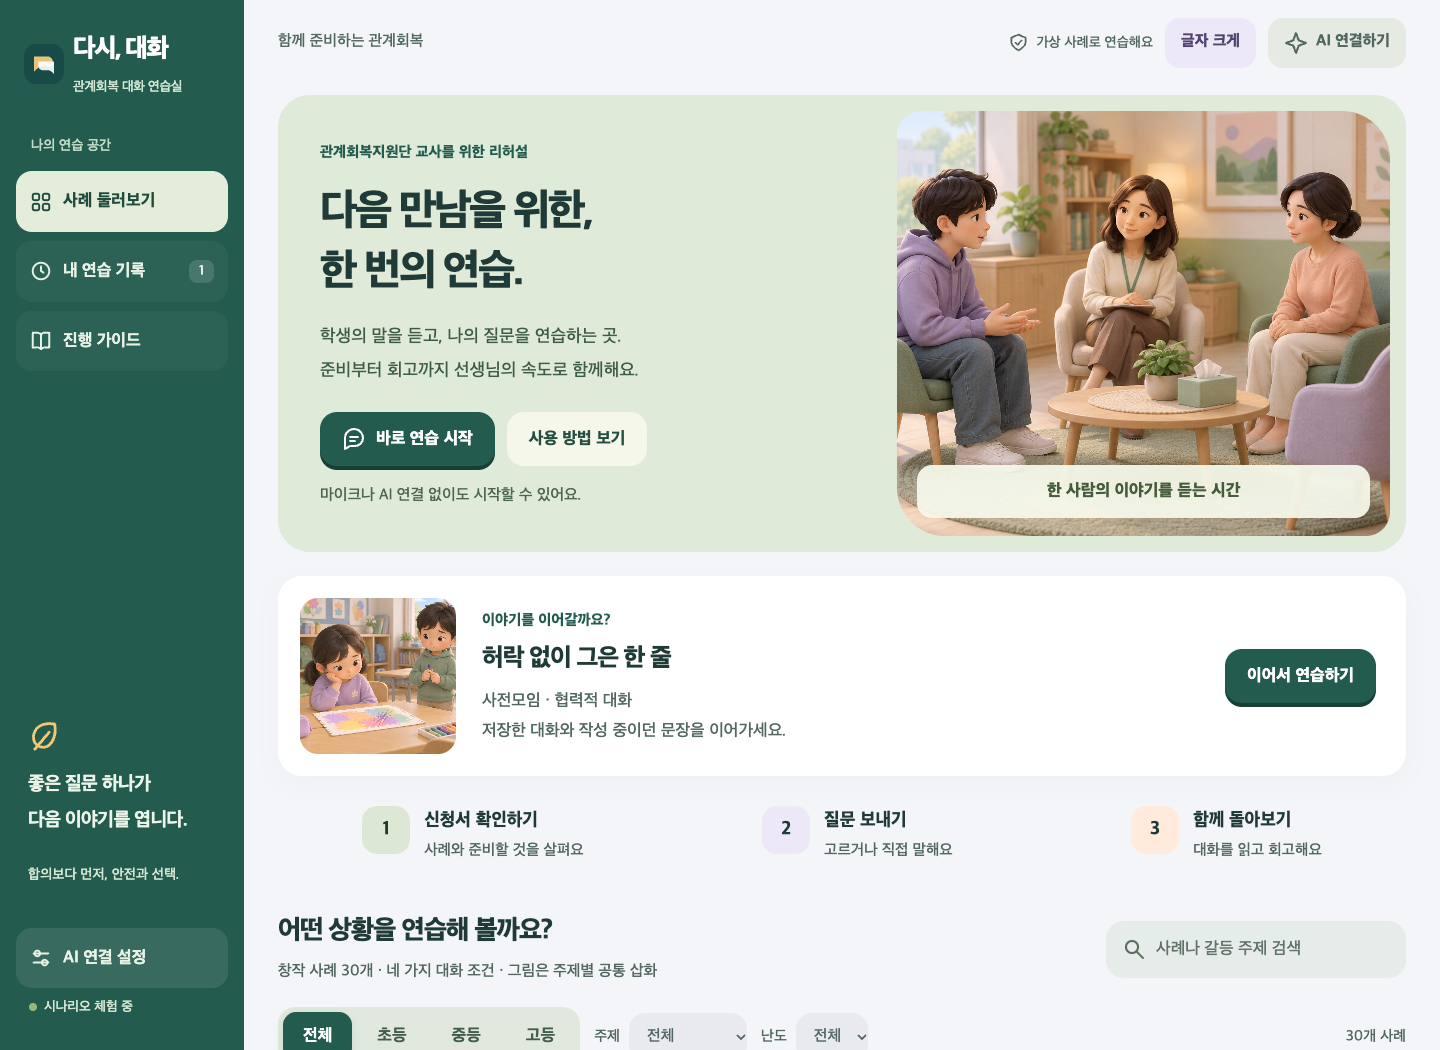
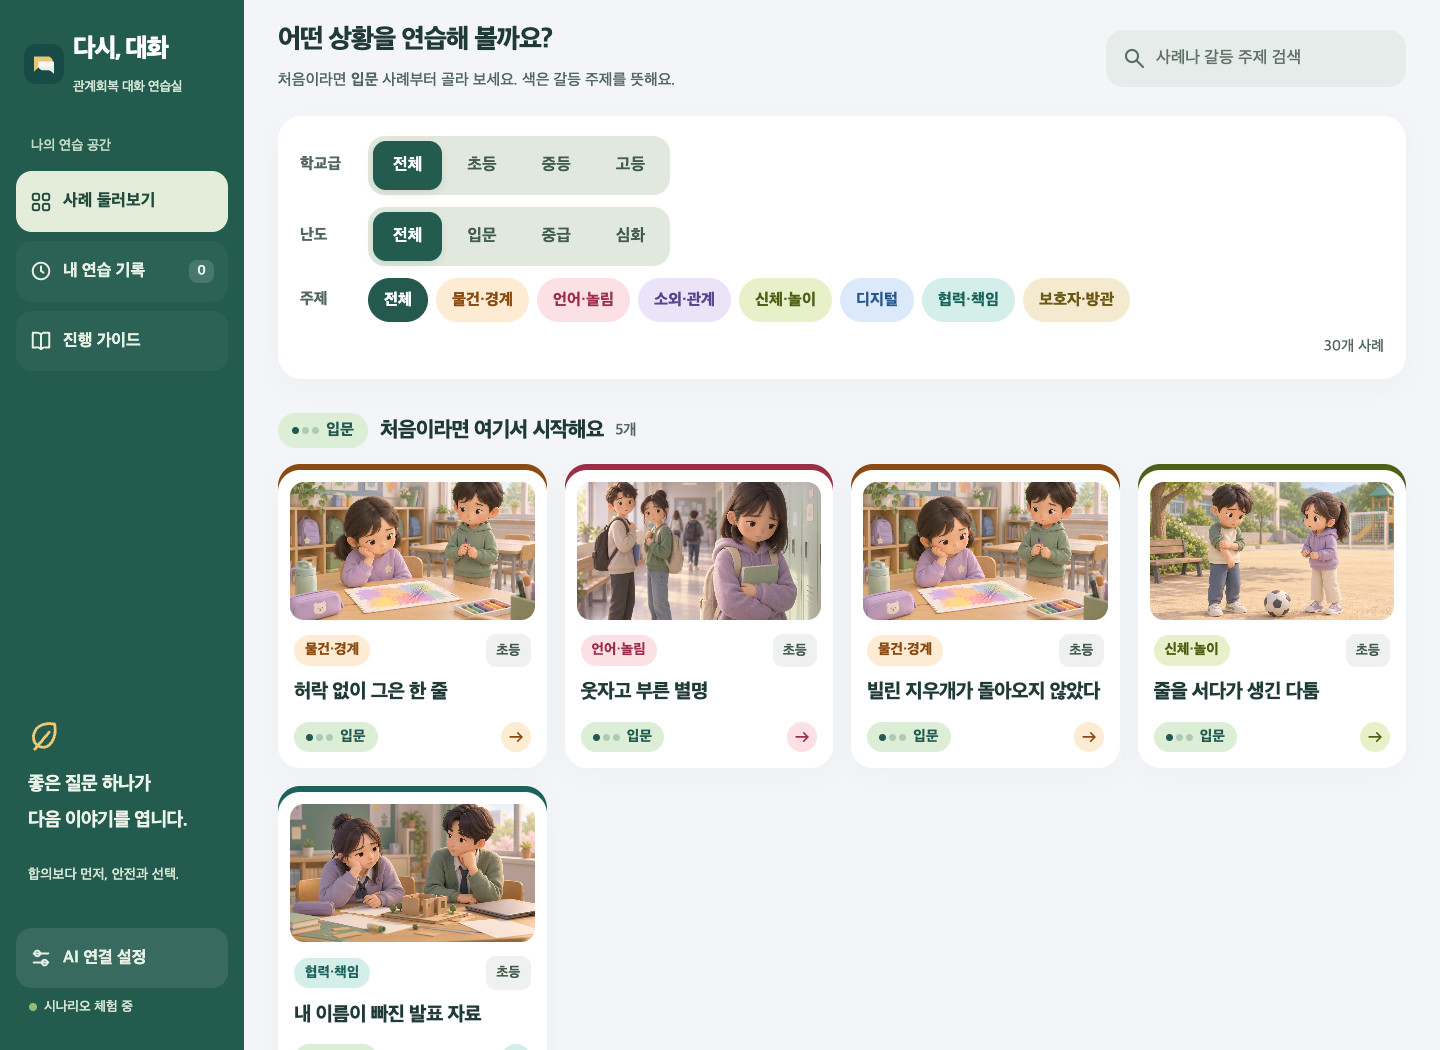
feat: release v0.3.0 with beginner-friendly case catalog
- Close every dialog on backdrop click; drags that start inside stay open
- Group cases by difficulty (입문 first) with 1-3 dot level tags
- Fixed color per conflict topic; topic/level filters become labeled chips
- Shorter case cards (no summary), horizontal cards on mobile
- Color accents and numbers on question cards; recommend 협력적 대화

diff --git a/public/experience.css b/public/experience.css
@@ -165,3 +165,60 @@
  :root[data-practice=active] .choice-card .choice-open,:root[data-practice=active] .choice-card .choice-selected{display:none}
  :root[data-practice=active] .choice-card.selected::after{content:'✓';position:absolute;right:6px;top:6px;font-size:13px;color:#fff}
 }
+
+/* v0.3 사례 분류: 주제마다 같은 색, 난도별 묶음, 제목 중심의 짧은 카드 */
+.cat-0{--cat-bg:#fdebd3;--cat-ink:#8a4a12}.cat-1{--cat-bg:#fbe0e5;--cat-ink:#9b2f47}.cat-2{--cat-bg:#ebe4f8;--cat-ink:#5a438f}.cat-3{--cat-bg:#e7f0c9;--cat-ink:#4c6116}.cat-4{--cat-bg:#dbe9fb;--cat-ink:#23598f}.cat-5{--cat-bg:#d4eeea;--cat-ink:#1b625b}.cat-6{--cat-bg:#f3ead0;--cat-ink:#6d5814}
+.filters{display:grid;gap:12px;margin-bottom:34px;padding:20px 22px;background:#fff;border-radius:24px;box-shadow:var(--surface-lift)}
+.filter-row{display:flex;align-items:center;gap:16px;min-width:0}
+.filter-name{flex:none;width:52px;font-size:.88rem;font-weight:800;color:var(--muted)}
+.filter-row .segmented{flex-wrap:wrap}
+.category-filters{display:flex;flex-wrap:wrap;gap:8px;min-width:0}
+.category-chip{display:inline-flex;align-items:center;border-radius:999px;background:var(--cat-bg,#e8eee9);color:var(--cat-ink,#2c4a41);font-size:.8rem;font-weight:750;line-height:1.4;padding:5px 11px}
+.category-filter{min-height:44px;padding:9px 16px;font-size:.9rem;transition:background .2s,color .2s,box-shadow .2s}
+.category-filter:hover{box-shadow:inset 0 0 0 2px var(--cat-ink,#24594f)}
+.category-filter.selected{background:var(--cat-ink,#24594f);color:#fff}
+.filter-status{display:flex;align-items:center;justify-content:flex-end;gap:12px}
+.level-tag{display:inline-flex;align-items:center;gap:7px;border-radius:999px;padding:5px 12px;background:#eef1ef;color:#3e5b52;font-size:.82rem;font-weight:800;line-height:1.4;letter-spacing:0}
+.level-tag i{display:inline-flex;gap:3px}.level-tag b{width:7px;height:7px;border-radius:50%;background:currentColor;opacity:.25}
+.level-1 b:first-child,.level-2 b:nth-child(-n+2),.level-3 b{opacity:1}
+.level-1{background:#dcefd6;color:#24594f}.level-3{background:#fde2d5;color:#8a3d1b}
+.level-group+.level-group{margin-top:42px}
+.level-heading{display:flex;align-items:center;flex-wrap:wrap;gap:12px;font-size:1.2rem;margin:0 0 16px}
+.level-heading .level-tag{font-size:.9rem;padding:6px 14px}
+.level-heading small{font-size:.85rem;font-weight:600;color:var(--muted);letter-spacing:0}
+.case-grid{grid-template-columns:repeat(auto-fill,minmax(250px,1fr));gap:18px}
+.case-card,.case-card:nth-child(n){min-height:0;padding:12px 12px 16px;background:#fff;border-radius:22px;box-shadow:inset 0 6px 0 var(--cat-ink),var(--surface-lift)}
+.case-card:nth-child(n):hover{box-shadow:inset 0 6px 0 var(--cat-ink),0 10px 24px #203b3712}
+.case-card .case-scene{margin:6px 0 14px;border-radius:14px}
+.case-card .case-scene img{aspect-ratio:16/9}
+.case-card .case-top{gap:6px;margin:0 4px 10px}
+.case-card .badge{margin-left:auto;background:#eef1ef}
+.case-card h4{margin:0 4px 14px;font-size:1.12rem;line-height:1.5;font-weight:800;letter-spacing:-.03em;word-break:keep-all;overflow-wrap:anywhere}
+.case-card .case-bottom{padding:0 4px}
+.case-card .case-bottom>.icon{background:var(--cat-bg);color:var(--cat-ink)}
+.recommend{display:inline-block;margin-left:8px;padding:2px 9px;border-radius:999px;background:#24594f;color:#fff;font-size:.75rem;font-style:normal;font-weight:750;vertical-align:2px}
+.choice-card:nth-child(1){--choice-accent:#d99a4e}.choice-card:nth-child(2){--choice-accent:#8f7cc4}.choice-card:nth-child(3){--choice-accent:#4f93cc}.choice-card:nth-child(4){--choice-accent:#5fa070}
+.choice-card:not(.selected),.choice-card:nth-child(even):not(.selected){box-shadow:inset 6px 0 0 var(--choice-accent),0 3px 0 #c2cfd0}
+.choice-card:not(.selected):hover{box-shadow:inset 6px 0 0 var(--choice-accent),0 3px 0 #afc1ba}
+@media(max-width:600px){
+ .filters{padding:16px;gap:14px;border-radius:22px}
+ .filter-row{display:grid;gap:8px}
+ .filter-name{width:auto}
+ .case-grid{grid-template-columns:1fr;gap:12px}
+ .case-card,.case-card:nth-child(n){display:grid;grid-template-columns:96px minmax(0,1fr);grid-template-areas:"art top" "art title" "art bottom";column-gap:14px;align-items:start;padding:12px 14px 12px 16px;box-shadow:inset 6px 0 0 var(--cat-ink),var(--surface-lift)}
+ .case-card:nth-child(n):hover{box-shadow:inset 6px 0 0 var(--cat-ink),0 10px 24px #203b3712}
+ .case-card .case-scene{grid-area:art;margin:0;align-self:stretch}
+ .case-card .case-scene img{aspect-ratio:1;height:100%}
+ .case-card .case-top{grid-area:top;margin:0 0 6px}
+ .case-card h4{grid-area:title;margin:0 0 8px;font-size:1.08rem}
+ .case-card .case-bottom{grid-area:bottom;padding:0}
+}
+/* 넓은 PC 창: 남는 카드 공간에 번호를 보여 준다. 카드 제목 크기(15/16px)는 v0.2.4 기준을 유지한다. */
+@media(min-width:901px) and (min-height:560px){
+ :root[data-practice=active] .choice-grid{container-type:size;counter-reset:choice}
+ :root[data-practice=active] .choice-card{counter-increment:choice}
+ @container (min-width:420px) and (min-height:330px){
+  .choice-card::before{content:counter(choice);position:absolute;top:12px;left:16px;display:grid;place-items:center;width:30px;height:30px;border-radius:50%;background:var(--choice-accent);color:#fff;font-size:14px;font-weight:800}
+  .choice-card.selected::before{background:#fff;color:#24594f}
+ }
+}

diff --git a/public/version.js b/public/version.js
@@ -1,1 +1,1 @@
-export const VERSION='0.2.4';
+export const VERSION='0.3.0';

diff --git a/docs/VERIFICATION.md b/docs/VERIFICATION.md
@@ -157,3 +157,10 @@
 - Node 단위·HTTP 검사 35개 통과. 효과음의 최대 이득·발음 순서, 즉시 도착한 답변의 소리 겹침 방지, 음소거 시 예약 음 중단, 오디오·저장소 미지원 시 오류 격리 포함.
 - PC 1366×768 및 낮고 좁은 901×640, 모바일 320px의 2×2 화면 스크린샷 육안 검토. 브라우저 오디오 재생 경로는 확인했으나 실제 스피커로 청취하거나 물리 마이크·실물 휴대전화를 사용하지 않음.
 - 최종 `desktop-room.mjs`는 PC 8개 크기·일반/확대 글자·긴 AI 제목을 포함한 40개 상태 통과. `responsive.mjs`, `followups-browser.mjs`, `v02-browser.mjs`, `browser.mjs`, `intake-browser.mjs`, `sounds-browser.mjs` 통과. 제공사 응답·음성 인식은 모의 응답 사용.
+
+## v0.3.0 — 사례 분류·배경 클릭 닫기
+
+- `browser.mjs`에 주제 칩(디지털 5개)·난도(입문 1개 묶음 5개)·조건 초기화(3개 묶음 30개) 검사와, 질문 상세 창을 배경 클릭으로 닫아도 기존 선택이 유지되는지 검사 추가.
+- 상세 창 안쪽 여백 클릭과 창 안에서 시작해 바깥에서 끝난 드래그는 창을 닫지 않음을 1440px·390px에서 확인.
+- Node 단위·HTTP 검사 35개 통과. `browser.mjs`, `responsive.mjs`, `intake-browser.mjs`, `followups-browser.mjs`, `v02-browser.mjs`, `desktop-room.mjs`, `sounds-browser.mjs` 통과.
+- 사례 목록 1440·768·390px, 대화 화면 1440×1000·1024×700·390px 스크린샷 육안 검토. 실물 휴대전화는 사용하지 않음.

diff --git a/README.md b/README.md
@@ -1,4 +1,4 @@
-# 다시, 대화 · v0.2.4
+# 다시, 대화 · v0.3.0
 
 충남 관계회복지원단 교사가 가상 학생·보호자와 대화모임을 연습하는 웹앱입니다. 충남 관계회복 운영 자료를 참고했습니다. [자료와 적용 범위](docs/SOURCES.md)에 참고 링크를 정리했습니다. 학교급별 창작 사례 30개를 제공합니다.
 
@@ -33,6 +33,13 @@ Node.js 22 이상이 있으면 추가 패키지 설치 없이 실행됩니다. m
 
 Finder에서 `다시대화 실행.command`를 더블클릭해 서버를 시작할 수도 있습니다. 같은 포트에서 이미 실행 중이라면 기존 브라우저 주소를 열면 됩니다. 파일을 `file://`로 직접 열지 마세요.
 
+
+## v0.3에서 달라진 점
+
+- 사례를 **입문 → 중급 → 심화** 순서로 묶었습니다. 처음이라면 맨 위 입문 사례부터 고르세요.
+- 갈등 주제마다 색이 정해져 있습니다. 위쪽 주제 색 칩을 누르면 그 주제만 봅니다.
+- 사례 카드는 제목 중심으로 짧게 보여 주고 자세한 내용은 카드를 눌러 확인합니다.
+- 팝업 창은 바깥 어두운 배경을 눌러도 닫힙니다. 고른 문장은 그대로 남습니다.
 
 ## v0.2에서 달라진 점
 

diff --git a/docs/PRD-COVERAGE.md b/docs/PRD-COVERAGE.md
@@ -1,4 +1,4 @@
-# PRD 적용 확인 — v0.2.4
+# PRD 적용 확인 — v0.3.0
 
 2026-10-10 현재 PRD와 코드를 대조했다. 기존의 핵심 기능은 구현되어 있었으며, v0.2에서 사용 흐름과 저장·내보내기의 완성도를 보완했다. ‘구현’과 실제 API/물리 기기 검증은 구분한다.
 
@@ -24,7 +24,7 @@
 | 질문 버튼 대비·글자 넘침 방지 | 진한 선택 탭, 흰색 카드와 경계, 작은 카드 제목·큰 글씨의 상세 창 | question-controls, desktop-room, responsive |
 | 효과음·음소거 유지 | 선택·전송·답변 도착, 브라우저 설정 저장·자동 재생 없음 | sounds, sounds-browser |
 | 모바일 선택 즉시 대화창 이동 | 구현 유지, 자동 전송 없음 | followups-browser |
-| 버전업·GitHub 저장소 | v0.2.4, 버전 일치 검사·CI 추가 | workspace, GitHub Actions |
+| 버전업·GitHub 저장소 | v0.3.0, 버전 일치 검사·CI 추가 | workspace, GitHub Actions |
 | 공개 웹 접속과 AI 중계 | HTTPS 화면 + Vercel Node.js 함수, GitHub main 자동 배포 | hosting, hosting-live |
 | 웹 첫 로딩 | WebP 13장, 합계 약 95% 용량 절감 | HTTP MIME·브라우저 화면 검사 |
 

diff --git a/CHANGELOG.md b/CHANGELOG.md
@@ -1,5 +1,13 @@
 # 변경 기록
 
+## 0.3.0 — 2026-10-10
+
+- 문장 상세·사례·설정 등 모든 팝업을 바깥 배경 클릭으로 닫기. 창 안에서 시작한 드래그는 닫지 않으며 기존 선택 유지.
+- 사례 목록을 난도별(입문·중급·심화)로 묶고 입문을 맨 앞에 배치. 난도는 점 1–3개로도 표시.
+- 갈등 주제 7개에 고정 색을 지정. 주제·난도 선택 상자를 색 칩·버튼으로 바꾸고 각 줄에 이름 표시.
+- 사례 카드는 그림·주제·학교급·제목·난도만 남기고 요약문 제거(상세 창에서 확인). 모바일은 작은 그림 옆에 제목을 둔 가로형 카드.
+- 사례 상세의 ‘협력적 대화’에 처음이라면 추천 표시. 질문 카드 네 개에 색 띠를 두고 넓은 PC 창에서 번호 표시.
+
 ## 0.2.4 — 2026-10-10
 
 - PC·모바일 문항을 다시 2×2로 배치. 카드 제목만 14–16px로 줄이고 네 문항을 동시에 표시.
